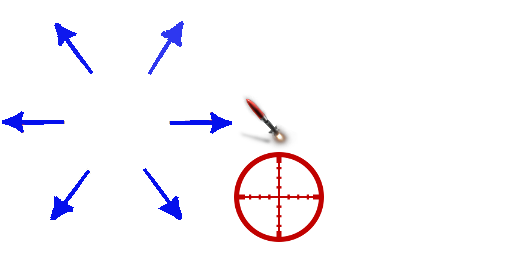
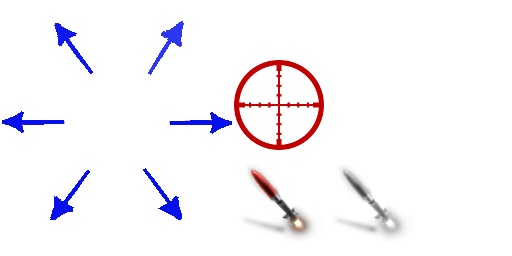
Unit: add ATTACK_ASSIST overlay

Changed region(s): [[0.4375, 0.2188, 0.6562, 0.9688], [0.6562, 0.6562, 0.8125, 0.9375]]

diff --git a/core/src/ch/asynk/tankontank/game/Unit.java b/core/src/ch/asynk/tankontank/game/Unit.java
@@ -13,6 +13,7 @@ public class Unit extends HeadedPawn
     public static final int MOVE = 0;
     public static final int ATTACK = 1;
     public static final int TARGET = 2;
+    public static final int ATTACK_ASSIST = 3;
 
     public enum UnitType implements Pawn.PawnType
     {
@@ -233,6 +234,11 @@ public class Unit extends HeadedPawn
     public void showAttack(boolean enable)
     {
         enableOverlay(ATTACK, enable);
+    }
+
+    public void showAttackAssist(boolean enable)
+    {
+        enableOverlay(ATTACK_ASSIST, enable);
     }
 
     public void showTarget(boolean enable)
